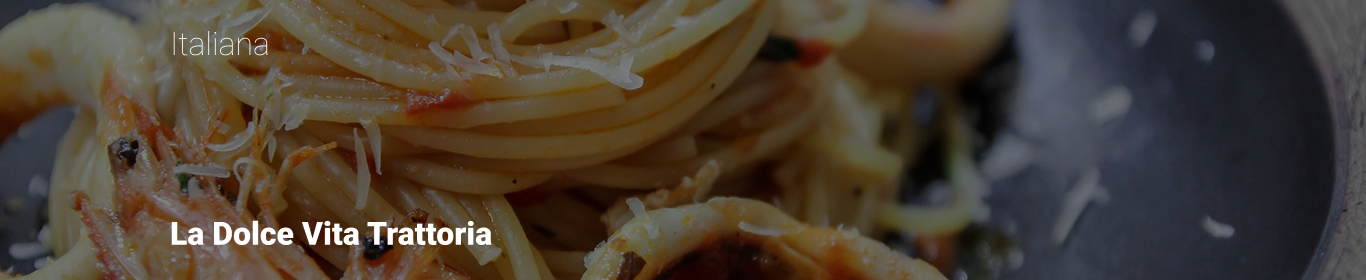
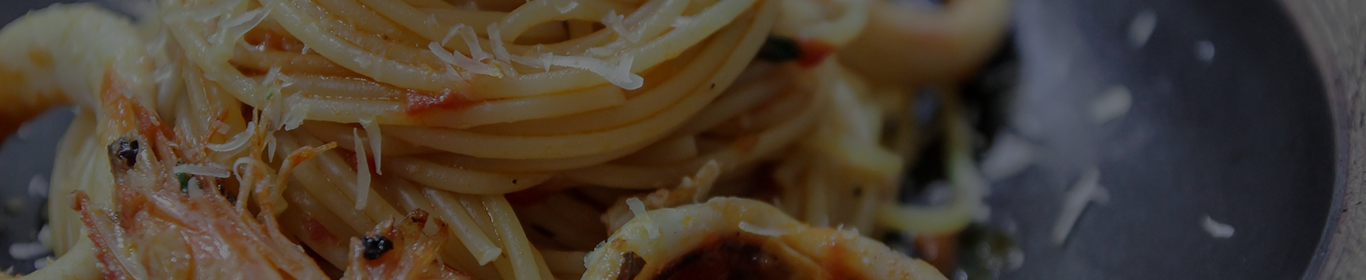
Alterando a imagem da página categories para conter texto e imagem, ajustando cores do texto dos produtos

Changed region(s): [[0.123, 0.7714, 0.369, 0.8857], [0.123, 0.1143, 0.2152, 0.2]]

diff --git a/src/components/Header/styles.ts b/src/components/Header/styles.ts
@@ -2,6 +2,7 @@ import styled from 'styled-components'
 import bgImage from '../../assets/images/fundo.png'
 import bgVariant from '../../assets/images/apresentacao.png'
 import { Props } from '.'
+import { cores } from '../../styles'
 
 export const HeaderBar = styled.header<{ variant?: Props['variant'] }>`
   background-image: url(${bgImage});
@@ -27,13 +28,29 @@ export const VariantBanner = styled.div`
   background-size: cover;
   background-position: center;
 `
+
+export const TituloBanner = styled.h2`
+  padding-top: 24px;
+  padding-bottom: 160px;
+  font-size: 32px;
+  font-weight: 100;
+  color: #fff;
+  opacity: 0.7;
+`
+
+export const TituloRestauranrte = styled.h2`
+  font-size: 32px;
+  font-weight: bold;
+  color: #fff;
+`
+
 export const VariantHeaderTexto = styled.div`
   width: 100%;
   display: flex;
   flex-direction: row;
   align-items: center;
   justify-content: center;
-  gap: 600px;
+  gap: 720px;
   padding: 24px;
 
   h4 {

diff --git a/src/components/Product/styles.ts b/src/components/Product/styles.ts
@@ -38,13 +38,13 @@ export const Titulo = styled.h3<{ variant?: Props['variant'] }>`
   font-weight: bold;
   font-size: 16px;
   display: block;
-  margin-top: 16px;
-  margin-bottom: 8px;
+  margin-top: 8px;
+  margin-bottom: 6px;
 
   ${(props) =>
     props.variant === 'categories' &&
     `
-      color: ${cores.cinza};
+      color: ${cores.begeClaro};
       margin-top: 2px;
       margin-bottom: 2px;
       `}
@@ -54,13 +54,13 @@ export const Descricao = styled.p<{ variant?: Props['variant'] }>`
   font-size: 14px;
   line-height: 22px;
   display: block;
-  margin-top: 16px;
   margin-bottom: 16px;
 
   ${(props) =>
     props.variant === 'categories' &&
     `
       margin-top: 0;
+      color: ${cores.begeClaro};
       `}
 `
 export const Infos = styled.div`

diff --git a/src/components/Header/index.tsx b/src/components/Header/index.tsx
@@ -4,7 +4,9 @@ import {
   HeaderBar,
   TextoBanner,
   VariantBanner,
-  VariantHeaderTexto
+  VariantHeaderTexto,
+  TituloBanner,
+  TituloRestauranrte
 } from './styles'
 
 import logo from '../../assets/images/logo.png'
@@ -44,7 +46,14 @@ const Header = ({ showTexto = true, variant = 'default' }: Props) => (
       )}
     </HeaderBar>
 
-    {variant === 'categories' && <VariantBanner />}
+    {variant === 'categories' && (
+      <VariantBanner>
+        <div className="container">
+          <TituloBanner>Italiana</TituloBanner>
+          <TituloRestauranrte>La Dolce Vita Trattoria</TituloRestauranrte>
+        </div>
+      </VariantBanner>
+    )}
   </>
 )
 

diff --git a/src/components/ProductsList/styles.ts b/src/components/ProductsList/styles.ts
@@ -31,6 +31,7 @@ export const List = styled.ul<{ variant?: Props['variant'] }>`
   column-gap: 48px;
   row-gap: 40px;
   margin-top: 40px;
+  margin-bottom: 64px;
 
   ${(props) =>
     props.variant === 'categories' &&
@@ -38,6 +39,8 @@ export const List = styled.ul<{ variant?: Props['variant'] }>`
       grid-template-columns: repeat(3, 1fr);
       column-gap: 24px;
       row-gap: 24px;
+      margin-bottom: 64px;
+      margin-top: 8px;
       `}
 `
 

diff --git a/public/index.html b/public/index.html
@@ -26,7 +26,8 @@
     -->
     <title>efood</title>
 
-    <link href="https://fonts.googleapis.com/css2?family=Roboto:wght@400;700&display=swap" rel="stylesheet">
+    <link href="https://fonts.googleapis.com/css2?family=Roboto:wght@100;400;700&display=swap" rel="stylesheet">
+
 
   </head>
   <body>

diff --git a/src/components/Product/index.tsx b/src/components/Product/index.tsx
@@ -57,7 +57,7 @@ const Product = ({
         )}
       </LinhaTitulo>
 
-      <Descricao>{description}</Descricao>
+      <Descricao variant={variant}>{description}</Descricao>
 
       {variant === 'categories' ? (
         <ButtonLinkVariant to="">Adicionar ao carrinho</ButtonLinkVariant>

diff --git a/src/styles.ts b/src/styles.ts
@@ -14,7 +14,7 @@ export const GlobalCss = createGlobalStyle`
       margin: 0;
       padding: 0;
       box-sizing: border-box;
-      font-family: Roboto, sans-serif;
+      font-family: 'Roboto', sans-serif;
       list-style: none;
       text-decoration: none;
     }

diff --git a/src/components/Button/styles.ts b/src/components/Button/styles.ts
@@ -6,7 +6,7 @@ export const ButtonLink = styled(Link)`
   border: 2px solid ${cores.salmon};
   background-color: ${cores.salmon};
   padding: 6px 10px;
-  margin-bottom: 16px;
+  margin-bottom: 4px;
   color: ${cores.cinza};
   font-size: 16px;
   font-weight: bold;
